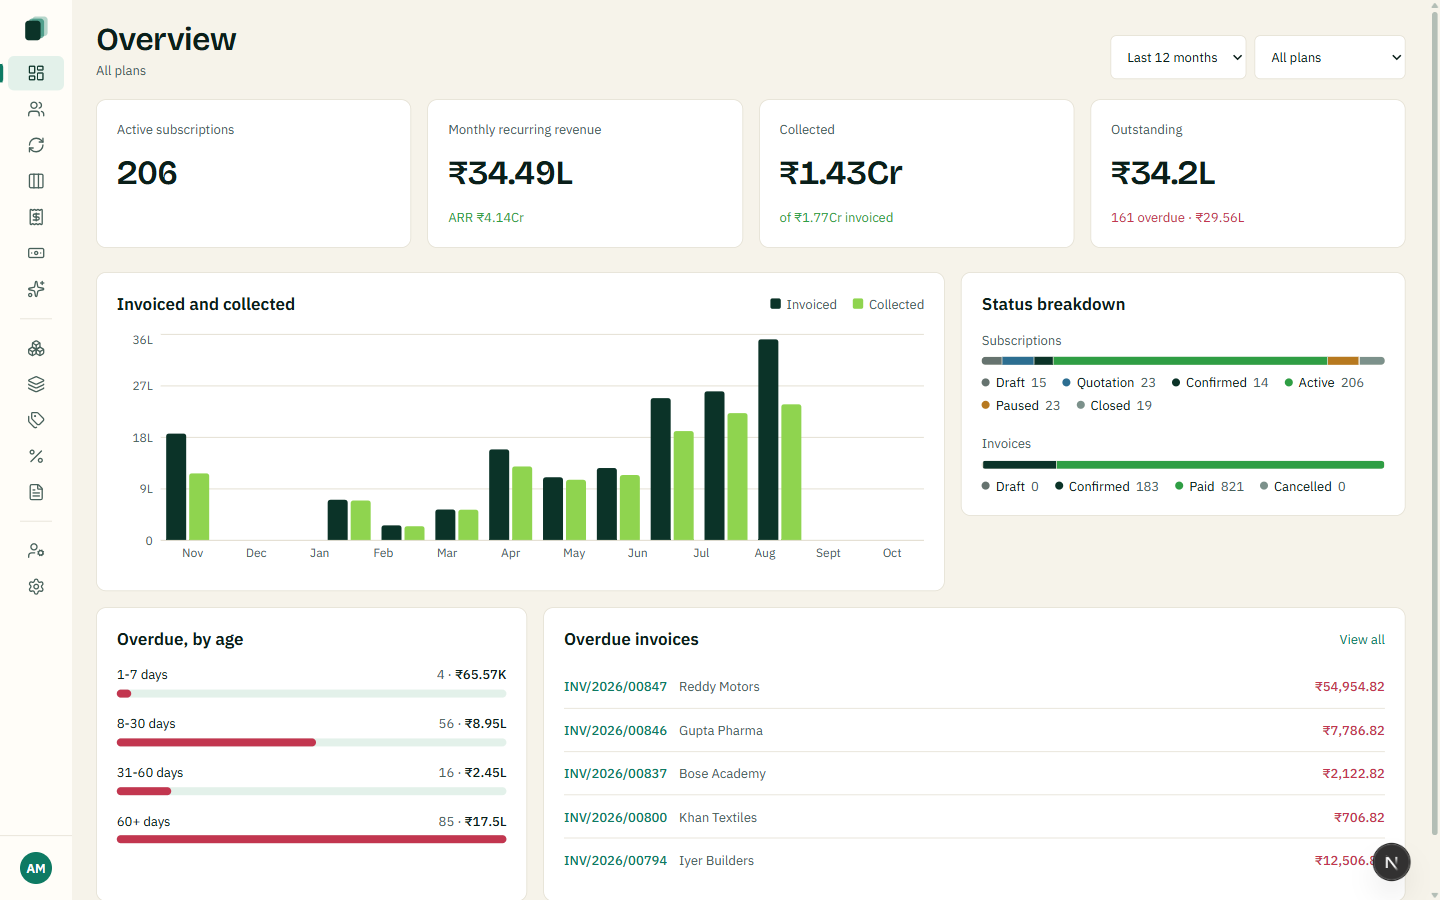
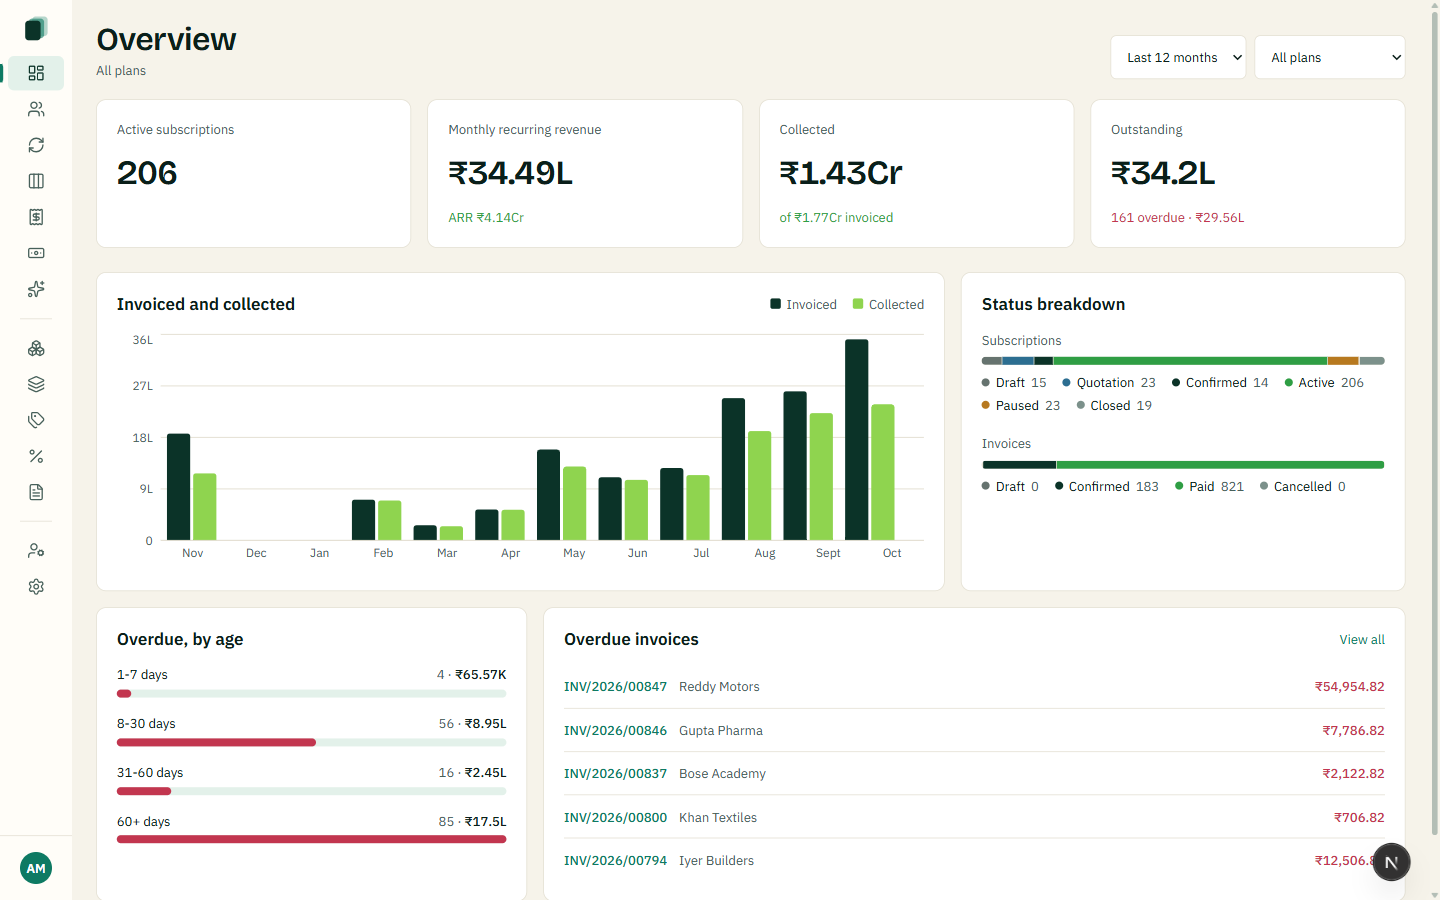
fix(ui): keep expanded sidebar collapse control visible

Changed region(s): [[0.2188, 0.3733, 0.625, 0.6222], [0.125, 0.4978, 0.1562, 0.6222]]

diff --git a/frontend/tests/sidebar-toggle.browser.js b/frontend/tests/sidebar-toggle.browser.js
@@ -9,11 +9,15 @@ async (page) => {
   const collapse = page.getByRole("button", { name: "Collapse sidebar", exact: true });
   await collapse.waitFor();
   await page.mouse.move(900, 600);
-  const mark = collapse.locator("[data-sidebar-mark]");
+  const home = page.getByRole("link", { name: "Cadence home", exact: true });
+  const mark = home.locator("[data-sidebar-mark]");
   const icon = collapse.locator("[data-sidebar-action]");
   if (await mark.evaluate((el) => getComputedStyle(el).opacity) !== "1") throw new Error("Default logo hidden");
   const box = await collapse.boundingBox();
+  const homeBox = await home.boundingBox();
   if (!box || box.y > 80 || box.width < 44 || box.height < 44) throw new Error("Top toggle target too small/misplaced");
+  if (!homeBox || box.x < homeBox.x + homeBox.width) throw new Error("Collapse control is not to the right of Cadence");
+  if (await icon.evaluate((el) => getComputedStyle(el).opacity) !== "1") throw new Error("Expanded collapse action depends on hover");
   const labelContrast = await page.evaluate(() => {
     const luminance = (rgb) => rgb.match(/[\d.]+/g).slice(0, 3).map(Number).map((v) => {
       const channel = v / 255;
@@ -26,7 +30,7 @@ async (page) => {
   if (labelContrast < 4.5) throw new Error("Section labels fail AA text contrast");
   await collapse.hover();
   if (await icon.evaluate((el) => getComputedStyle(el).opacity) !== "1") throw new Error("Hover action missing");
-  if (await mark.evaluate((el) => getComputedStyle(el).opacity) !== "0") throw new Error("Logo did not swap");
+  if (await mark.evaluate((el) => getComputedStyle(el).opacity) !== "1") throw new Error("Expanded home logo disappeared");
   await page.screenshot({ path: "docs/qa/sidebar-expanded-hover.png" });
   await collapse.click();
   const expand = page.getByRole("button", { name: "Expand sidebar", exact: true });
@@ -37,7 +41,12 @@ async (page) => {
   if (!await page.locator(`#${controls}`).count()) throw new Error("Missing controlled navigation");
   if (await page.getByRole("button", { name: /^(Expand|Collapse) sidebar$/ }).count() !== 1) throw new Error("Duplicate toggle");
   await page.mouse.move(900, 600);
+  if (await expand.locator("[data-sidebar-mark]").evaluate((el) => getComputedStyle(el).opacity) !== "1") throw new Error("Collapsed logo is not the default");
   await page.screenshot({ path: "docs/qa/sidebar-collapsed.png" });
+  await expand.hover();
+  if (await expand.locator("[data-sidebar-action]").evaluate((el) => getComputedStyle(el).opacity) !== "1") throw new Error("Collapsed hover action hidden");
+  if (await expand.locator("[data-sidebar-mark]").evaluate((el) => getComputedStyle(el).opacity) !== "0") throw new Error("Collapsed logo did not swap");
+  await page.screenshot({ path: "docs/qa/sidebar-collapsed-hover.png" });
   await page.getByRole("link", { name: "Insights", exact: true }).click();
   await page.getByRole("heading", { name: "Risk & Retention Insights" }).waitFor();
   if (await expand.getAttribute("aria-expanded") !== "false") throw new Error("Route lost collapse state");
@@ -97,7 +106,7 @@ async (page) => {
   const mobile = await page.evaluate(() => ({ width: innerWidth, scrollWidth: document.documentElement.scrollWidth }));
   if (mobile.scrollWidth > mobile.width) throw new Error("Mobile overflow");
   await page.setViewportSize({ width: 1440, height: 900 });
-  const report = { topToggle: box, labelContrast, passed: ["default logo", "hover swap", "mouse toggle", "ARIA state", "route/reload persistence", "Enter and Space", "touch without hover", "44px touch navigation", "blocked storage", "mobile sheet navigation"], mobile };
+  const report = { topToggle: box, labelContrast, passed: ["expanded logo and always-visible right toggle", "collapsed logo default and hover swap", "mouse toggle", "ARIA state", "route/reload persistence", "Enter and Space", "touch without hover", "44px touch navigation", "blocked storage", "mobile sheet navigation"], mobile };
   await page.evaluate((value) => { window.__cadenceSidebarReport = value; }, report);
   return report;
 }

diff --git a/frontend/src/components/layout/SidebarHeader.tsx b/frontend/src/components/layout/SidebarHeader.tsx
@@ -24,30 +24,35 @@ export function SidebarHeader({ collapsed, onToggle, onNavigate }: {
   }
 
   return (
-    <div className={cn("flex h-14 shrink-0 items-center text-sidebar-accent-foreground", collapsed ? "justify-center" : "gap-1 px-3")}>
+    <div className={cn("flex h-14 shrink-0 items-center text-sidebar-accent-foreground", collapsed ? "justify-center" : "justify-between gap-2 px-3")}>
+      {!collapsed && (
+        <Link href="/dashboard" onClick={onNavigate} aria-label="Cadence home"
+          className="flex min-w-0 items-center gap-2 rounded-md pl-2 font-display text-xl font-bold focus-visible:outline-2 focus-visible:outline-offset-2 focus-visible:outline-sidebar-ring">
+          <span aria-hidden="true" data-sidebar-mark className="shrink-0"><LedgerMark /></span>
+          <span>Cadence</span>
+        </Link>
+      )}
       <Tooltip>
         <TooltipTrigger render={
           <button type="button" onClick={onToggle} aria-label={action}
             aria-expanded={!collapsed} aria-controls={WORKSPACE_NAV_ID}
             className="group relative flex size-11 shrink-0 items-center justify-center rounded-md hover:bg-sidebar-accent focus-visible:outline-2 focus-visible:outline-offset-2 focus-visible:outline-sidebar-ring">
-            <span aria-hidden="true" data-sidebar-mark
-              className="pointer-events-none absolute inset-0 flex items-center justify-center group-hover:opacity-0 group-focus-visible:opacity-0 [@media(hover:none)]:opacity-0">
-              <LedgerMark />
-            </span>
-            <span aria-hidden="true" data-sidebar-action
-              className="pointer-events-none absolute inset-0 flex items-center justify-center opacity-0 group-hover:opacity-100 group-focus-visible:opacity-100 [@media(hover:none)]:opacity-100">
-              {collapsed ? <PanelLeftOpen size={20} strokeWidth={1.75} /> : <PanelLeftClose size={20} strokeWidth={1.75} />}
-            </span>
+            {collapsed ? (
+              <>
+                <span aria-hidden="true" data-sidebar-mark
+                  className="pointer-events-none absolute inset-0 flex items-center justify-center group-hover:opacity-0 group-focus-visible:opacity-0 [@media(hover:none)]:opacity-0">
+                  <LedgerMark />
+                </span>
+                <span aria-hidden="true" data-sidebar-action
+                  className="pointer-events-none absolute inset-0 flex items-center justify-center opacity-0 group-hover:opacity-100 group-focus-visible:opacity-100 [@media(hover:none)]:opacity-100">
+                  <PanelLeftOpen size={20} strokeWidth={1.75} />
+                </span>
+              </>
+            ) : <PanelLeftClose aria-hidden="true" data-sidebar-action size={20} strokeWidth={1.75} />}
           </button>
         } />
         <TooltipContent side={collapsed ? "right" : "bottom"} align={collapsed ? "center" : "start"}>{action}</TooltipContent>
       </Tooltip>
-      {!collapsed && (
-        <Link href="/dashboard" onClick={onNavigate} aria-label="Cadence home"
-          className="rounded-md font-display text-xl font-bold focus-visible:outline-2 focus-visible:outline-offset-2 focus-visible:outline-sidebar-ring">
-          Cadence
-        </Link>
-      )}
     </div>
   );
 }

diff --git a/docs/qa/sidebar-toggle-2026-10-31.md b/docs/qa/sidebar-toggle-2026-10-31.md
@@ -1,13 +1,15 @@
 # Shared sidebar follow-up
 
-User requested the familiar chat-app pattern: the top logo reveals the sidebar
-control on hover, rather than a separate bottom collapse button. This is shared
-across staff/admin app routes; the customer portal keeps its separate layout.
+User clarified the interaction after the first implementation: the expanded sidebar
+must expose its collapse control without hover. This is shared across staff/admin
+app routes; the customer portal keeps its separate layout.
 
 ## Behavior
 
-- Top 44×44 button shows the ledger mark normally and collapse/expand icon on
-  hover or keyboard focus. Tooltip and accessible name describe the current action.
+- Expanded: ledger mark and Cadence stay visible as a home link; a separate,
+  always-visible 44×44 collapse button sits to their right.
+- Collapsed: the ledger mark swaps to expand on hover or keyboard focus. Tooltip
+  and accessible name describe the current action.
 - `aria-expanded` reflects state; `aria-controls` points to the desktop navigation.
 - The expanded wordmark remains a separate home link (no nested button/link).
 - Touch/coarse-pointer devices always show the action icon, without needing hover;
@@ -22,20 +24,20 @@ across staff/admin app routes; the customer portal keeps its separate layout.
 - `npx eslint src`: passed.
 - `npx next typegen`, then `npx tsc --noEmit`: passed.
 - `npx next build`: passed, including optimized compilation, TypeScript and 24 static pages.
-- Initial Impeccable detector on the two changed source files returned no findings;
-  final refinements improved touch sizing and label contrast.
+- Impeccable detector on the corrected header returned no findings.
 - Playwright `frontend/tests/sidebar-toggle.browser.js`: completed all assertions.
-  Verified default logo, hover swap, mouse activation, ARIA state, Insights route
+  Verified always-visible expanded action to the right of Cadence, unchanged home
+  logo on hover, collapsed logo/hover swap, mouse activation, ARIA state, Insights route
   and reload persistence, Enter/Space, a separate 1024px touch-emulated browser
   context, 44px touch links, rejected storage writes in another context, and 375px
   mobile sheet navigation to Products. Mobile document width 365px ≤ 375px viewport.
-- Measured toggle bounds: x=12, y=6, 44×44 (old control was 36×36 at y=850).
+- Measured expanded-toggle bounds: x=192, y=6, 44×44 (old bottom control was 36×36 at y=850).
 - Computed section-label contrast against the sidebar surface: **6.69:1**.
-- The final browser call exceeded the tool response timeout, but the script
-  completed; its final in-page assertion report was retrieved and confirmed success.
+- The corrected interaction's browser run completed and returned all assertions passed.
 
 Screenshots: [expanded/hover](sidebar-expanded-hover.png),
-[collapsed](sidebar-collapsed.png), [mobile sheet](sidebar-mobile-sheet.png).
+[collapsed](sidebar-collapsed.png), [collapsed hover](sidebar-collapsed-hover.png),
+[mobile sheet](sidebar-mobile-sheet.png).
 
 No backend or permission changes; no dependencies, manifests, landing files, or
 environment files changed in this PR. Backend pytest/ruff were not run for this
